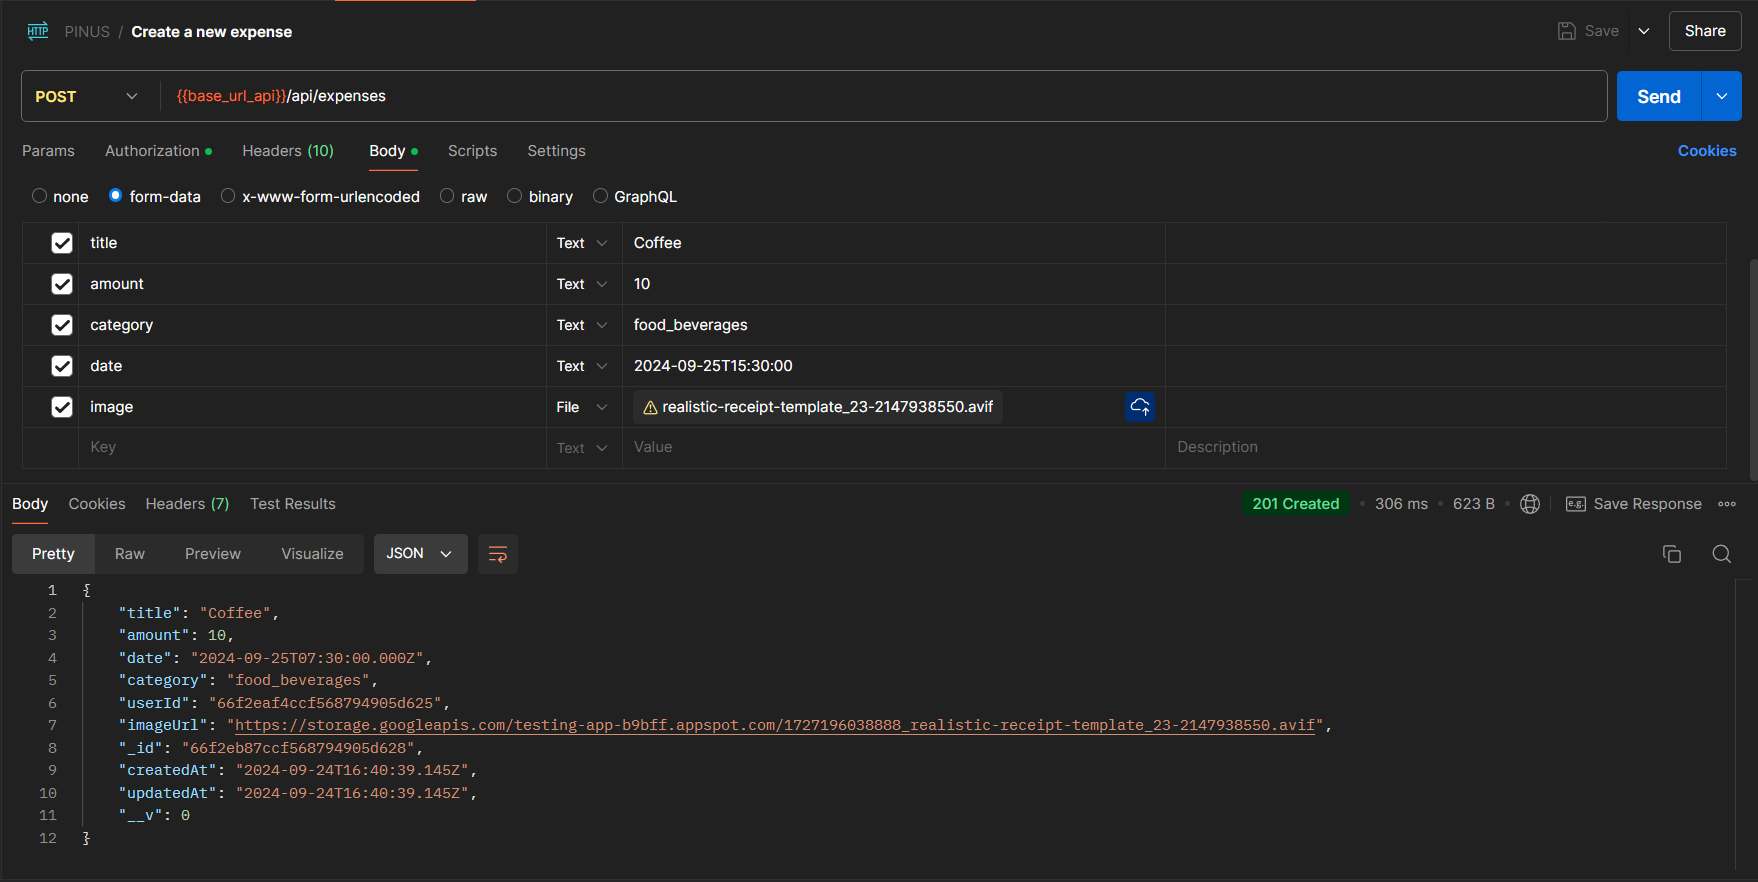
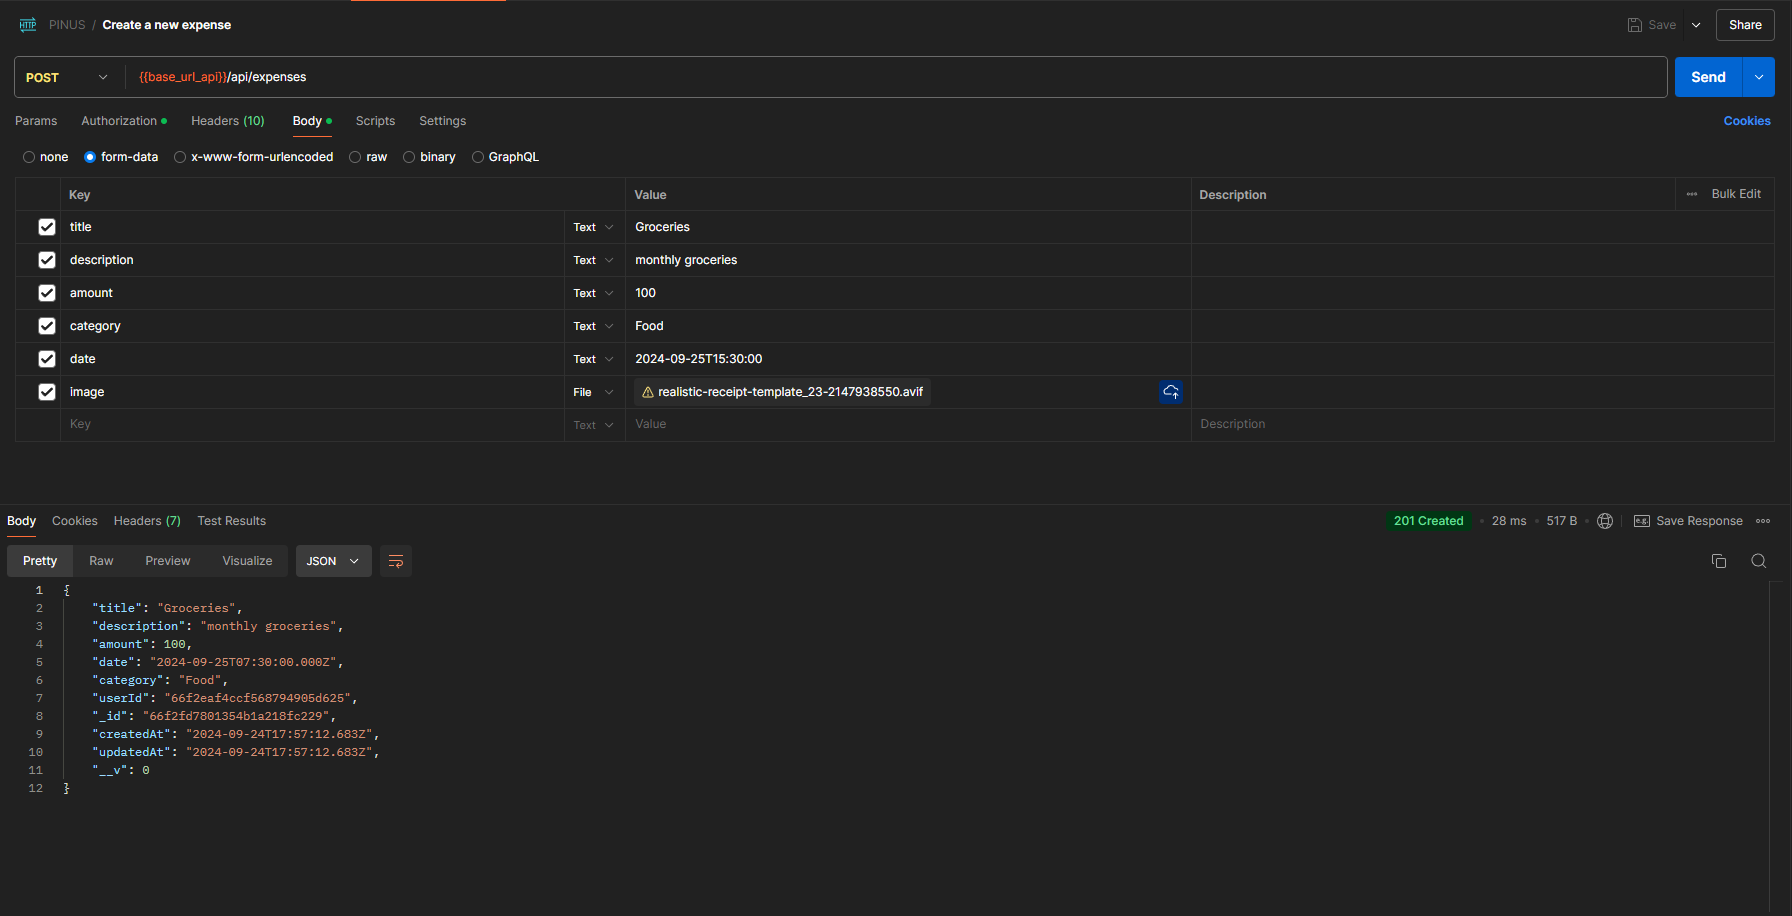
Add description field to Expense model

diff --git a/src/controllers/expenseController.ts b/src/controllers/expenseController.ts
@@ -10,8 +10,10 @@ export const createExpense = async (
   try {
     const expense: IExpense = new Expense({
       ...req.body,
+      description: req.body.description || "",
       userId: req.userId,
     });
+
     await expense.save();
     res.status(201).json(expense);
   } catch (error: unknown) {

diff --git a/src/types/expense.ts b/src/types/expense.ts
@@ -2,7 +2,7 @@ import { Document } from "mongoose";
 
 export interface IExpense extends Document {
   title: string;
-  description?: string;
+  description: string | "";
   amount: number;
   date: Date;
   category: string;

diff --git a/README.md b/README.md
@@ -2,7 +2,7 @@
 
 ## Overview
 
-This API is built using **Node.js**, **Express.js**, **MongoDB**, and **Firebase**. It supports basic CRUD operations for managing expenses, authentication using JWT, and image uploads to Firebase. The project follows a **RESTful API** structure, with authentication and middleware for handling file uploads.
+This API is built using [**Node.js**](https://nodejs.org/en), [**Express.js**](https://expressjs.com), [**MongoDB**](https://www.mongodb.com), and [**Firebase**](https://firebase.google.com). It supports basic [**CRUD**](https://www.codecademy.com/article/what-is-crud) operations for managing expenses, authentication using [**JWT**](https://jwt.io), and image uploads to Firebase. The project follows a [**RESTful API**](https://aws.amazon.com/what-is/restful-api/) structure, with authentication and middleware for handling file uploads.
 
 ## Table of Contents
 
@@ -101,11 +101,23 @@ Handles file uploads to Firebase:
 Defines the **Expense** model with the following fields:
 
 - `title`: String, required.
+- `description`: (Optional) String.
 - `amount`: Number, required.
 - `date`: Date, required.
 - `category`: String, required.
 - `userId`: Reference to the user who created the expense.
 - `imageUrl`: (Optional) URL for the uploaded receipt image.
+
+> Date is using the ISO 8601 format,
+>
+> > YYYY-MM-DDTHH:MM:SS.SSSZ
+> >
+> > > 2024-09-25T07:30:00.000Z
+> > >
+> > > - Year: 2024
+> > > - Month: 09 (September)
+> > > - Day: 25
+> > > - Time: 07:30 AM UTC
 
 #### `src/models/User.ts`
 
@@ -190,7 +202,7 @@ Add the Token in the Authorization, select the Bearer Token, and add the token f
 
   - Creates a new expense.
   - **Requires**: JWT Token.
-  - **Body**: `{ "title": "Groceries", "amount": 100, "date": "2024-09-25T15:30:00", "category": "Food", "image": <file> }`
+  - **Body**: `{ "title": "Groceries", "description (optional)": "monthly groceries", "amount": 100, "date": "2024-09-25T15:30:00", "category": "Food", "image (optional)": <file> }`
 
   ![Create](./images/create.png)
 
@@ -225,23 +237,15 @@ Add the Token in the Authorization, select the Bearer Token, and add the token f
 
 ---
 
-## Environment Variables
-
-The following environment variables are required to run the application:
-
-```env
-MONGODB_URI=mongodb+srv://...
-JWT_SECRET=i_love_peenoos_and_babono_and_epan
-FIREBASE_SERVICE_ACCOUNT_KEY={"type": "service_account", ... }
-FIREBASE_STORAGE_BUCKET=....appspot.com
-PORT=8000
-```
-
----
-
 ## Running the Application
 
 1. Clone the repository.
+
+   ```bash
+   git clone https://github.com/your-username/expense-tracker-api.git
+   cd expense-tracker-api
+   ```
+
 2. Install the required dependencies:
 
    ```bash
@@ -249,6 +253,19 @@ PORT=8000
    ```
 
 3. Create a `.env` file in the root directory and configure the necessary environment variables as listed above.
+
+   - On Windows:
+
+     ```cmd
+     copy .env.example .env
+     ```
+
+   - On Linux/macOS/WSL:
+
+     ```bash
+     cp .env.example .env
+     ```
+
 4. Start the development server:
 
    ```bash
@@ -256,3 +273,73 @@ PORT=8000
    ```
 
 5. The server should now be running on `http://localhost:8000`. Use tools like Postman or curl to test the endpoints.
+
+---
+
+## Environment Variables
+
+The application requires the following environment variables to function correctly:
+
+```env
+MONGODB_URI=mongodb+srv://...
+JWT_SECRET=your_jwt_secret
+FIREBASE_SERVICE_ACCOUNT_KEY={"type": "service_account", ... }
+FIREBASE_STORAGE_BUCKET=....appspot.com
+PORT=8000
+```
+
+### MONGODB_URI
+
+To configure the MongoDB connection:
+
+1. Visit [MongoDB](https://www.mongodb.com/cloud/atlas/register) and create an account.
+
+   ![MongoDB Main](./images/mongo_main.png)
+
+2. Set up a new cluster.
+
+   ![Create Cluster](./images/mongo_new.png)
+
+3. Create a database user and password. **Save the credentials** for future use.
+
+   ![Connect to MongoDB](./images/mongo_connect.png)
+
+4. Click `Connect` on the cluster dashboard to retrieve the connection string.
+
+   ![Cluster Connected](./images/mongo_created.png)
+
+5. Copy the connection string and replace `admin` with your MongoDB username, and `<db_password>` with your password. Add this to your `.env` file under `MONGODB_URI`.
+
+   ![Connection String](./images/mongo_connection.png)
+
+### FIREBASE_SERVICE_ACCOUNT_KEY & FIREBASE_STORAGE_BUCKET
+
+To configure Firebase:
+
+1. Open the [Firebase Console](https://console.firebase.google.com) and log in with your Google account.
+
+   ![Firebase Dashboard](./images/firebase_create.png)
+
+2. Create a Cloud Storage bucket in Firebase.
+
+   ![Storage Setup](./images/firebase_created.png)
+
+3. Choose a `Cloud Storage Location` (`asia-southeast1` which is Singapore), and either Production or Test mode works.
+
+   ![Storage Configuration](./images/firebase_storage.png)
+
+4. In the `Project Settings` under `Service Accounts`, click `Generate New Private Key`. Download the JSON file and copy its contents to the `.env` file under `FIREBASE_SERVICE_ACCOUNT_KEY`.
+
+   ![Service Account Key](./images/firebase_newkey.png)
+
+5. Go back to the Firebase Storage settings and copy the bucket URL. Add this to your `.env` file under `FIREBASE_STORAGE_BUCKET`.
+
+   ![Storage Bucket URL](./images/firebase_bucketurl.png)
+
+### JWT_SECRET
+
+This key is used to sign and verify JSON Web Tokens (JWT). Choose a strong, secure secret value for `JWT_SECRET`, as it's critical for API authentication and security.
+
+### PORT
+
+The port on which the API will run. Default is `8000`.
